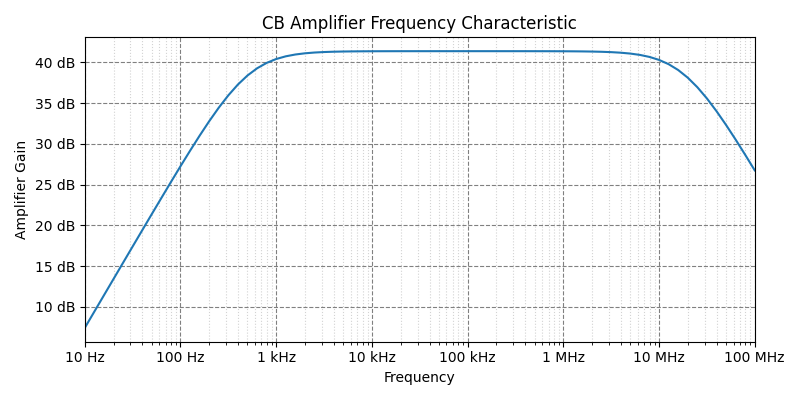
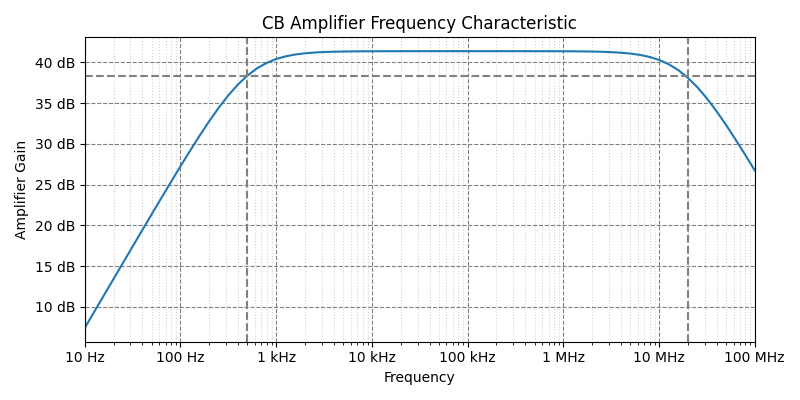
find bandwidth cb amp and plot graph

Changed region(s): [[0.125, 0.18, 0.9375, 0.21]]

diff --git a/bjt-amp-lab/source code/CB-freq.py b/bjt-amp-lab/source code/CB-freq.py
@@ -15,6 +15,14 @@ def main():
 
     vout = np.array(vout)
     freq = rawdata.get_frequency()
+    max_vout = np.max(vout)
+    vout_3dB = np.max(vout) - 3
+    freq_cutoff_index = np.where(np.around(vout_3dB, decimals=0)
+                                 == np.around(vout, decimals=0))
+    print(freq_cutoff_index)
+    low_cutoff_freq = freq[freq_cutoff_index[0][0]]
+    high_cutoff_freq = freq[freq_cutoff_index[0][1]]
+    print(f'Bandwidth: {high_cutoff_freq - low_cutoff_freq} Hz')
 
     figure, axis1 = plt.subplots(figsize=(8, 4))
     axis1.set_xscale('log')
@@ -30,33 +38,13 @@ def main():
     axis1.xaxis.grid(True, which='minor', ls='dotted', color='lightgrey')
     axis1.grid(True, which='major', ls='dashed', color='grey')
 
+    plt.axhline(y=vout_3dB, color='gray', linestyle='--')
+    plt.axvline(x=low_cutoff_freq, color='gray', linestyle='--')
+    plt.axvline(x=high_cutoff_freq, color='gray', linestyle='--')
     plt.tight_layout()
     plt.savefig(f'./figure/{filename[10:][:-4]}-freq.png')
     plt.show()
 
 
-def find_bandwidth():
-    filename = './ltspice/1-2.raw'
-    rawdata = Ltspice(filename)
-    rawdata.parse()
-
-    raw_vout = np.absolute(rawdata.get_data('V(vout)'))
-    vout = []
-    for data in raw_vout:
-        vout.append(20 * np.log10(data))
-
-    vout = np.array(vout)
-    freq = rawdata.get_frequency()
-
-    max_vout = np.max(vout)
-    vout_3dB = np.max(vout) - 3
-    freq_cutoff_index = np.where(np.around(vout_3dB, decimals=0)
-                                 == np.around(vout, decimals=0))
-    low_cutoff_freq = freq[freq_cutoff_index[0][0]]
-    high_cutoff_freq = freq[freq_cutoff_index[0][1]]
-    print(f'Bandwidth: {high_cutoff_freq - low_cutoff_freq} Hz')
-
-
 if __name__ == '__main__':
     main()
-    # find_bandwidth()

diff --git a/bjt-amp-lab/source code/CE-freq.py b/bjt-amp-lab/source code/CE-freq.py
@@ -74,5 +74,5 @@ def find_bandwidth():
 
 
 if __name__ == '__main__':
-    main()
-    # find_bandwidth()
+    # main()
+    find_bandwidth()
